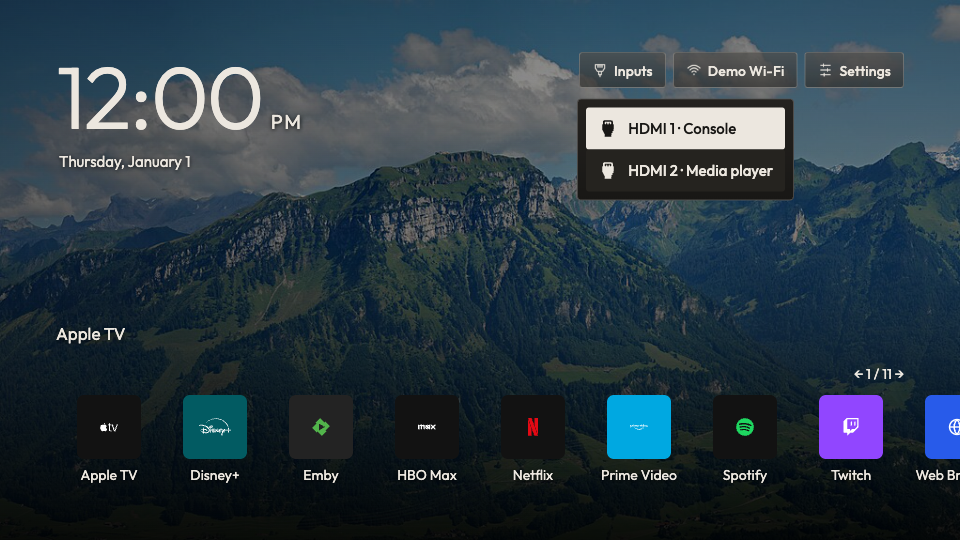
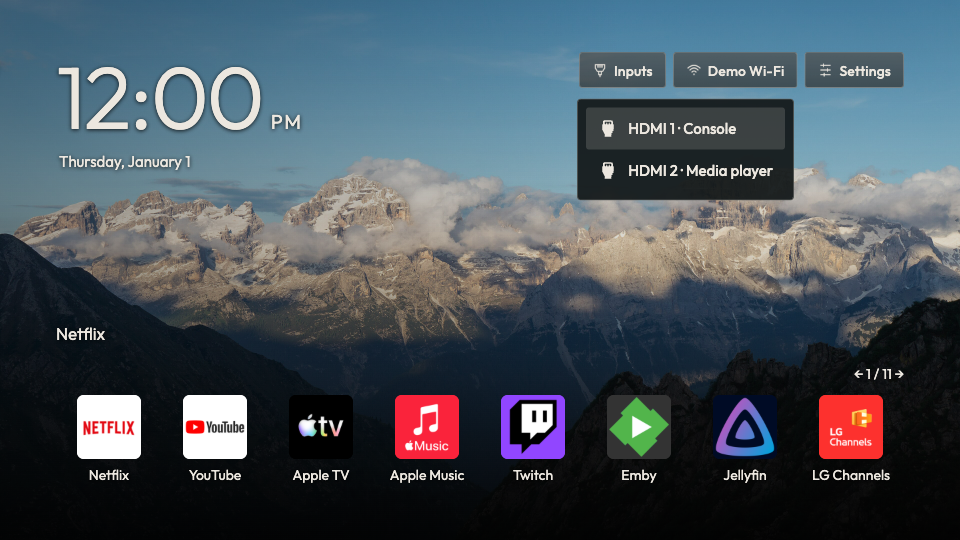
Improve Alpine wallpaper clarity and refresh browser previews

diff --git a/examples/index.html b/examples/index.html
@@ -10,7 +10,7 @@
 <header><div><h1>Classic, Channel, Alpine и Sharingan</h1><p>Classic встроена в Home и доступна в живом showcase. Ниже — сохранённые снимки Channel, Alpine и Sharingan.</p></div><nav aria-label="Экран превью"><button type="button" data-view="home" aria-pressed="true">Home</button><button type="button" data-view="inputs" aria-pressed="false">Входы</button><button type="button" data-view="settings" aria-pressed="false">Настройки</button></nav></header>
 <section class="grid" aria-label="Примеры тем">
 <article data-theme="terminal"><a class="preview" href="terminal/assets/preview.png"><img src="terminal/assets/preview.png" alt="Channel — Home" width="960" height="540"></a><div class="caption"><div><h2>Channel</h2><small>Телетекст и список приложений · 1 колонка</small></div><a href="terminal/theme.css">CSS ↗</a></div></article>
-<article data-theme="glasshouse"><a class="preview" href="glasshouse/assets/preview.png"><img src="glasshouse/assets/preview.png" alt="Alpine — Home" width="960" height="540"></a><div class="caption"><div><h2>Alpine</h2><small>Панорама, крупные часы и бесконечная лента · 8 колонок</small></div><a href="glasshouse/theme.css">CSS ↗</a></div></article>
+<article data-theme="glasshouse" data-home="glasshouse/assets/preview.jpg"><a class="preview" href="glasshouse/assets/preview.jpg"><img src="glasshouse/assets/preview.jpg" alt="Alpine — Home" width="960" height="540"></a><div class="caption"><div><h2>Alpine</h2><small>Панорама, крупные часы и бесконечная лента · 8 колонок</small></div><a href="glasshouse/theme.css">CSS ↗</a></div></article>
 <article data-theme="itachi" data-home="itachi/assets/preview.jpg"><a class="preview" href="itachi/assets/preview.jpg"><img src="itachi/assets/preview.jpg" alt="Itachi · Sharingan — Home" width="960" height="540"></a><div class="caption"><div><h2>Itachi · Sharingan</h2><small>Тёмный портрет и белые исходные иконки · 5 колонок</small></div><a href="itachi/theme.css">CSS ↗</a></div></article>
 </section>
 <footer>Кандидат · No-root · Демо-данные · Проверка на физическом ТВ ещё нужна. <a href="README.md">Как запустить живое превью ↗</a></footer>

diff --git a/examples/glasshouse/theme.css b/examples/glasshouse/theme.css
@@ -1,7 +1,7 @@
 /* Scenic Glasshouse-inspired composition. Positions belong to scenic-grid. */
 .ctv-home { background-color: #181c1e; color: #ece7df; }
 .ctv-ambient { background-image: linear-gradient(0deg, transparent, transparent); }
-.ctv-clock { color: #ece7df; }
+.ctv-clock { color: #ece7df; text-shadow: 0px 2px 8px rgba(0,0,0,0.8); }
 .ctv-date, .ctv-period { color: #ece7df; font-weight: 400; text-shadow: 0px 2px 8px rgba(0,0,0,0.8); }
 .ctv-shortcut { color: #ece7df; background-color: rgba(20,19,16,0.65); border-color: rgba(236,231,223,0.24); border-radius: 6px; }
 .ctv-shortcut.is-focused { color: #181715; background-color: #ece7df; border-color: #ece7df; }
